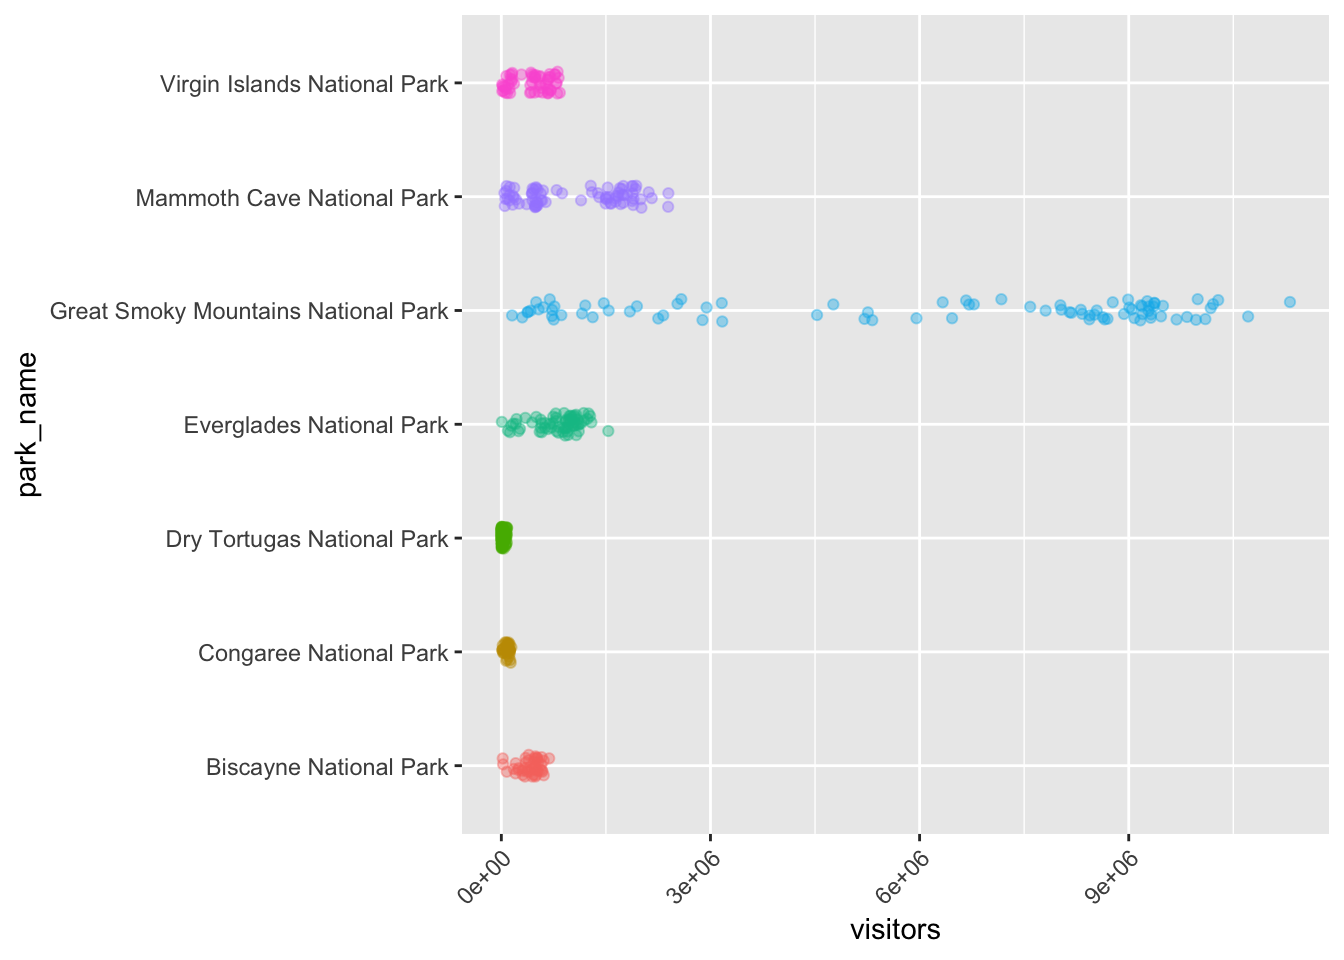
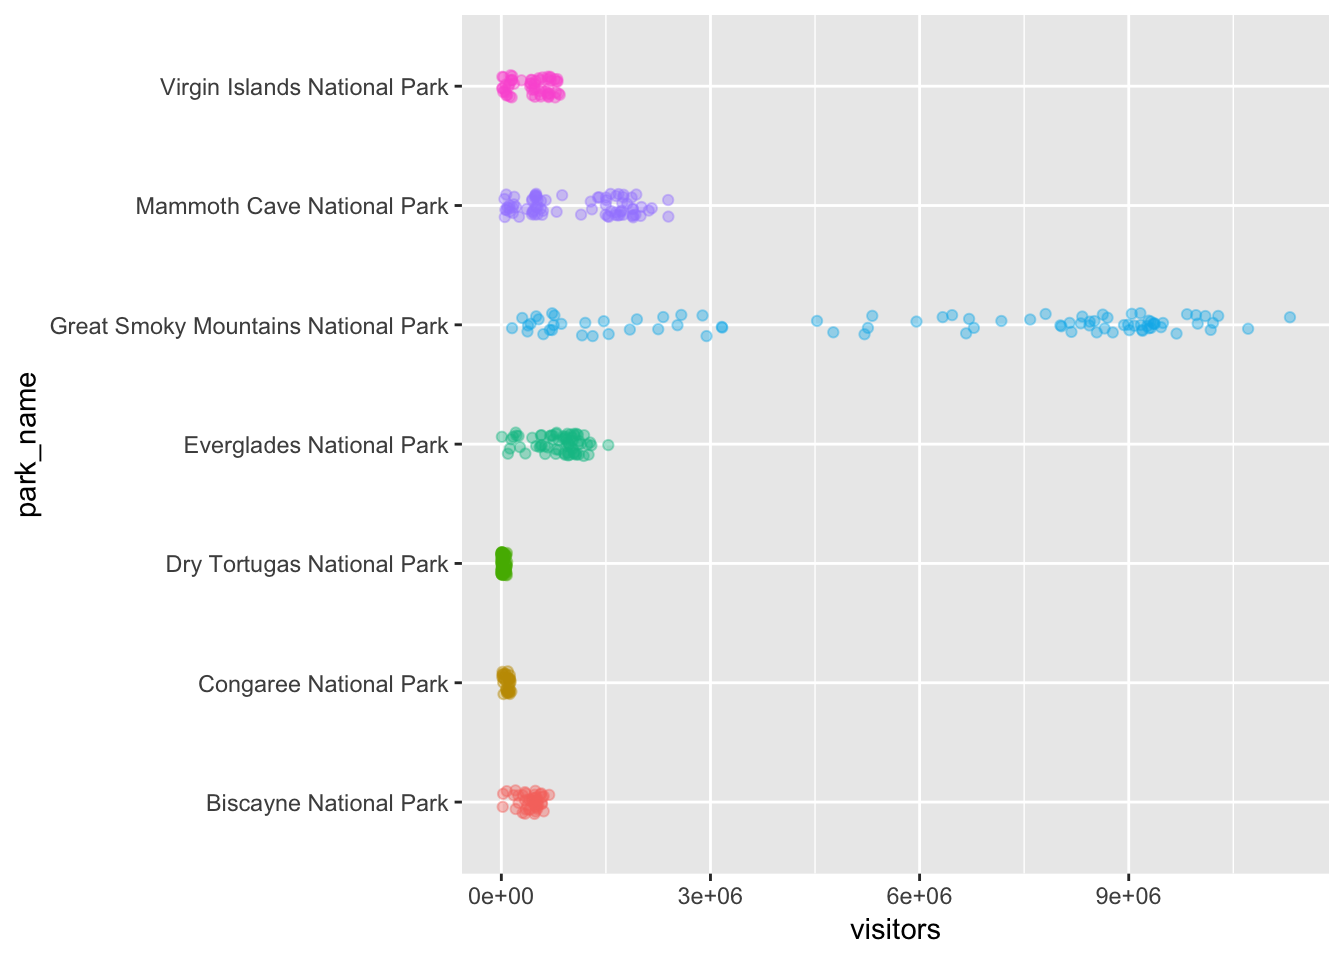
rebuild book

diff --git a/docs/ggplot2.html b/docs/ggplot2.html
@@ -409,8 +409,7 @@ se &lt;-<span class="st"> </span><span class="kw">read_csv</span>(<span class="s
 visit_<span class="dv">16</span> &lt;-<span class="st"> </span><span class="kw">read_csv</span>(<span class="st">&quot;https://raw.githubusercontent.com/OHI-Science/data-science-training/master/data/visit_16.csv&quot;</span>)
 
 <span class="co">#All Nationally designated sites in Massachusetts</span>
-mass &lt;-<span class="st"> </span><span class="kw">read_csv</span>(<span class="st">&quot;https://raw.githubusercontent.com/OHI-Science/data-science-training/master/data/ma.csv&quot;</span>)</code></pre></div>
-<pre><code>## Error in open.connection(con, &quot;rb&quot;): HTTP error 404.</code></pre>
+mass &lt;-<span class="st"> </span><span class="kw">read_csv</span>(<span class="st">&quot;https://raw.githubusercontent.com/OHI-Science/data-science-training/master/data/mass.csv&quot;</span>)</code></pre></div>
 </div>
 <div id="plotting-with-ggplot2" class="section level2">
 <h2><span class="header-section-number">5.4</span> Plotting with <strong><code>ggplot2</code></strong></h2>
@@ -443,8 +442,6 @@ mass &lt;-<span class="st"> </span><span class="kw">read_csv</span>(<span class=
 </ul>
 <div class="sourceCode"><pre class="sourceCode r"><code class="sourceCode r"><span class="kw">ggplot</span>(<span class="dt">data =</span> ca)</code></pre></div>
 <ul>
-<li><p>define aesthetics (<code>aes</code>), by selecting the variables to be plotted and the<br />
-variables to define the presentation such as plotting size, shape color, etc.</p></li>
 <li>add <code>geoms</code> – graphical representation of the data in the plot (points, lines, bars). <strong><code>ggplot2</code></strong> offers many different geoms; we will use some common ones today, including:
 <ul>
 <li><code>geom_point()</code> for scatter plots, dot plots, etc.</li>
@@ -453,7 +450,7 @@ variables to define the presentation such as plotting size, shape color, etc.</p
 </ul></li>
 </ul>
 <p>To add a geom to the plot use <code>+</code> operator. Because we have two continuous variables,<br />
-let’s use <code>geom_point()</code> first:</p>
+let’s use <code>geom_point()</code> first and then assign x and y aesthetics (<code>aes</code>):</p>
 <div class="sourceCode"><pre class="sourceCode r"><code class="sourceCode r"><span class="kw">ggplot</span>(<span class="dt">data =</span> ca) <span class="op">+</span><span class="st"> </span>
 <span class="st">  </span><span class="kw">geom_point</span>(<span class="kw">aes</span>(<span class="dt">x =</span> year, <span class="dt">y =</span> visitors))</code></pre></div>
 <p><img src="data-science-training_files/figure-html/first-ggplot-1.png" width="672" /></p>
@@ -503,7 +500,7 @@ let’s use <code>geom_point()</code> first:</p>
 <li>Using the <code>se</code> dataset, make a scatterplot showing visitation to all national parks in the Southeast region with color identifying individual parks.</li>
 <li>Change the plot so that color indicates <code>state</code>.</li>
 <li>Customize by adding your own title and theme. You can also change the text sizes and angles. Try applying a 45 degree angle to the x-axis. Use your cheatsheet!</li>
-<li>What’s going on here, why isn’t the data showing up?</li>
+<li>In the code below, why isn’t the data showing up?</li>
 </ol>
 </blockquote>
 <div class="sourceCode"><pre class="sourceCode r"><code class="sourceCode r"><span class="kw">ggplot</span>(<span class="dt">data =</span> se, <span class="kw">aes</span>(<span class="dt">x =</span> year, <span class="dt">y =</span> visitors))</code></pre></div>
@@ -513,8 +510,11 @@ let’s use <code>geom_point()</code> first:</p>
 <p><img src="data-science-training_files/figure-html/unnamed-chunk-34-1.png" width="672" /><img src="data-science-training_files/figure-html/unnamed-chunk-34-2.png" width="672" /></p>
 <blockquote>
 <ol start="4" style="list-style-type: decimal">
-<li>The code is missing a geom to describe how the data should be plotted. <strong>STOP: commit, pull and push to github</strong></li>
+<li>The code is missing a geom to describe how the data should be plotted.</li>
 </ol>
+</blockquote>
+<blockquote>
+<p><strong>STOP: commit, pull and push to github</strong></p>
 </blockquote>
 </div>
 <div id="faceting" class="section level2">
@@ -538,11 +538,11 @@ let’s use <code>geom_point()</code> first:</p>
               <span class="dt">width =</span> <span class="fl">0.1</span>, 
               <span class="dt">alpha =</span> <span class="fl">0.4</span>) <span class="op">+</span>
 <span class="st">  </span><span class="kw">coord_flip</span>() <span class="op">+</span>
-<span class="st">  </span><span class="kw">theme</span>(<span class="dt">legend.position =</span> <span class="st">&quot;none&quot;</span>, 
-        <span class="dt">axis.text.x =</span> <span class="kw">element_text</span>(<span class="dt">angle =</span> <span class="dv">45</span>, <span class="dt">hjust =</span> <span class="dv">1</span>))</code></pre></div>
+<span class="st">  </span><span class="kw">theme</span>(<span class="dt">legend.position =</span> <span class="st">&quot;none&quot;</span>) </code></pre></div>
 <p><img src="data-science-training_files/figure-html/unnamed-chunk-35-1.png" width="672" /></p>
 <div class="sourceCode"><pre class="sourceCode r"><code class="sourceCode r"><span class="kw">ggplot</span>(se, <span class="kw">aes</span>(<span class="dt">x =</span> park_name, <span class="dt">y =</span> visitors)) <span class="op">+</span><span class="st"> </span>
-<span class="st">  </span><span class="kw">geom_boxplot</span>()</code></pre></div>
+<span class="st">  </span><span class="kw">geom_boxplot</span>() <span class="op">+</span>
+<span class="st">  </span><span class="kw">theme</span>(<span class="dt">axis.text.x =</span> <span class="kw">element_text</span>(<span class="dt">angle =</span> <span class="dv">45</span>, <span class="dt">hjust =</span> <span class="dv">1</span>))</code></pre></div>
 <p><img src="data-science-training_files/figure-html/unnamed-chunk-35-2.png" width="672" /></p>
 <p>None of these are great for visualizing data over time. We can use <code>geom_line()</code> in the same way we used <code>geom_point</code>.</p>
 <div class="sourceCode"><pre class="sourceCode r"><code class="sourceCode r"><span class="kw">ggplot</span>(se, <span class="kw">aes</span>(<span class="dt">x =</span> year, <span class="dt">y =</span> visitors, <span class="dt">color =</span> park_name)) <span class="op">+</span>
@@ -608,14 +608,14 @@ let’s use <code>geom_point()</code> first:</p>
 <p>There’s one more piece of magic associated with bar charts. You can colour a bar chart using either the <code>color</code> aesthetic, or, more usefully, <code>fill</code>:</p>
 <div class="sourceCode"><pre class="sourceCode r"><code class="sourceCode r"><span class="kw">ggplot</span>(<span class="dt">data =</span> visit_<span class="dv">16</span>, <span class="kw">aes</span>(<span class="dt">x =</span> state, <span class="dt">y =</span> visitors, <span class="dt">fill =</span> park_name)) <span class="op">+</span><span class="st"> </span>
 <span class="st">  </span><span class="kw">geom_bar</span>(<span class="dt">stat =</span> <span class="st">&quot;identity&quot;</span>)</code></pre></div>
-<p><img src="data-science-training_files/figure-html/unnamed-chunk-40-1.png" width="672" /></p>
+<p><img src="data-science-training_files/figure-html/unnamed-chunk-40-1.png" width="384" /></p>
 <p>The stacking is performed automatically by the <strong>position adjustment</strong> specified by the <code>position</code> argument. If you don’t want a stacked bar chart, you can use <code>&quot;dodge&quot;</code>.</p>
 <ul>
 <li><code>position = &quot;dodge&quot;</code> places overlapping objects directly <em>beside</em> one another. This makes it easier to compare individual values.</li>
 </ul>
 <div class="sourceCode"><pre class="sourceCode r"><code class="sourceCode r"><span class="kw">ggplot</span>(<span class="dt">data =</span> visit_<span class="dv">16</span>, <span class="kw">aes</span>(<span class="dt">x =</span> state, <span class="dt">y =</span> visitors, <span class="dt">fill =</span> park_name)) <span class="op">+</span><span class="st"> </span>
 <span class="st">  </span><span class="kw">geom_bar</span>(<span class="dt">stat =</span> <span class="st">&quot;identity&quot;</span>, <span class="dt">position =</span> <span class="st">&quot;dodge&quot;</span>)</code></pre></div>
-<p><img src="data-science-training_files/figure-html/unnamed-chunk-41-1.png" width="672" /></p>
+<p><img src="data-science-training_files/figure-html/unnamed-chunk-41-1.png" width="384" /></p>
 <blockquote>
 <h3 id="challenge-1"><span class="header-section-number">5.11.1</span> Challenge</h3>
 </blockquote>
@@ -639,7 +639,7 @@ let’s use <code>geom_point()</code> first:</p>
 <span class="st">  </span><span class="kw">labs</span>(<span class="dt">x =</span> <span class="st">&quot;&quot;</span>,
        <span class="dt">y =</span> <span class="st">&quot;&quot;</span>)<span class="op">+</span>
 <span class="st">  </span><span class="kw">theme</span>(<span class="dt">axis.text.x =</span> <span class="kw">element_text</span>(<span class="dt">angle =</span> <span class="dv">45</span>, <span class="dt">hjust =</span> <span class="dv">1</span>, <span class="dt">size =</span> <span class="dv">7</span>))</code></pre></div>
-<pre><code>## Error in ggplot(data = mass): object &#39;mass&#39; not found</code></pre>
+<p><img src="data-science-training_files/figure-html/unnamed-chunk-42-1.png" width="672" /></p>
 </div>
 </div>
 <div id="arranging-and-exporting-plots" class="section level2">

diff --git a/docs/rstudio.html b/docs/rstudio.html
@@ -555,7 +555,7 @@ And that's great, this error message is helpful: R doesn't know what the `little
 <div class="sourceCode"><pre class="sourceCode r"><code class="sourceCode r">??install </code></pre></div>
 <p>Not all functions have (or require) arguments:</p>
 <div class="sourceCode"><pre class="sourceCode r"><code class="sourceCode r"><span class="kw">date</span>()</code></pre></div>
-<pre><code>## [1] &quot;Mon Oct 22 06:08:22 2018&quot;</code></pre>
+<pre><code>## [1] &quot;Mon Oct 22 06:38:32 2018&quot;</code></pre>
 </div>
 </div>
 <div id="clearing-the-environment" class="section level2">

diff --git a/README.md b/README.md
@@ -1,11 +1,12 @@
 ## Collaborative. Reproducible. Science.
 
-  These materials are available as a book at http://ohi-science.org/data-science-training. (Alternative [link](https://rawgit.com/OHI-Science/data-science-training/master/docs/index.html)).
+These materials are available as a book at http://ohi-science.org/data-science-training. (Alternative [link](https://rawgit.com/OHI-Science/data-science-training/master/docs/index.html)).
 
 Please clone or download https://github.com/OHI-Science/data-science-training to accompany this training.
 <br>
 <br>
 <br>
+
 ### Rendering
 
 To render this book in RStudio: Build tab > Build Book. Or on the command line:
@@ -15,6 +16,16 @@ rmarkdown::render_site(encoding = 'UTF-8')
 ````
 
 This will build the HTML and PDF versions of the book into the `docs/` folder, which should not be directly edited (and occassionally completely deleted before rendering to remove old unused files).
+
+### Teaching Setup
+
+This book as been used for Software Carpentry workshops and the OHI Fellows program (recordings on the [OHI-Science YouTube Channel](https://www.youtube.com/watch?v=xpe7jmt0-J4&list=PLX7J3qtjcll_4s2oaKHuWdRdBMJz7tBAU)).
+
+Prior to teaching:
+
+- github chapter: since `my-repo` has been created, consider `[placename]-repo` e.g. `whoi-repo`
+- before ggplot2 chapter: `install.packages('tidyverse')`
+
 
 ### Acknowledgements
 
